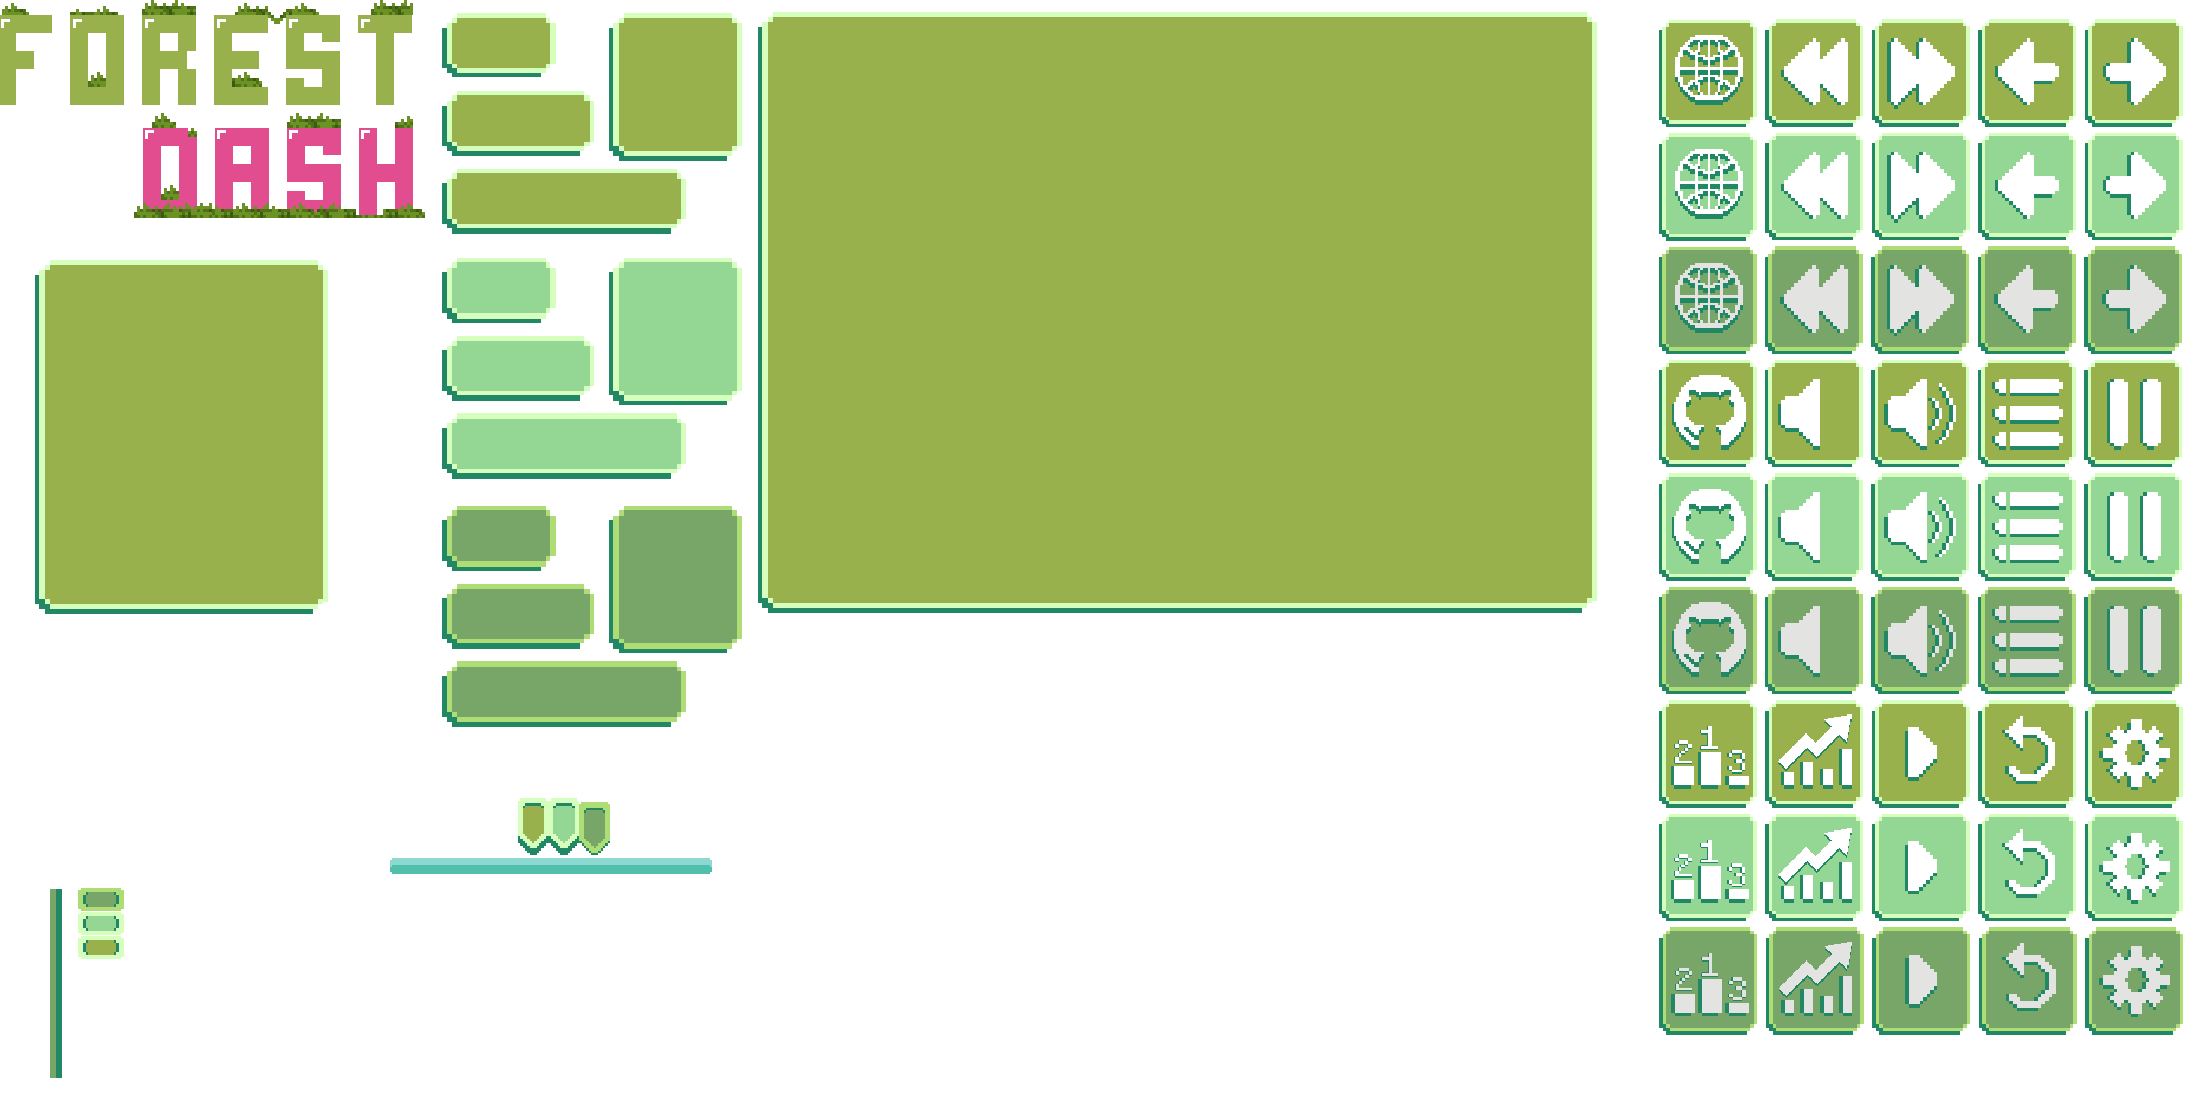
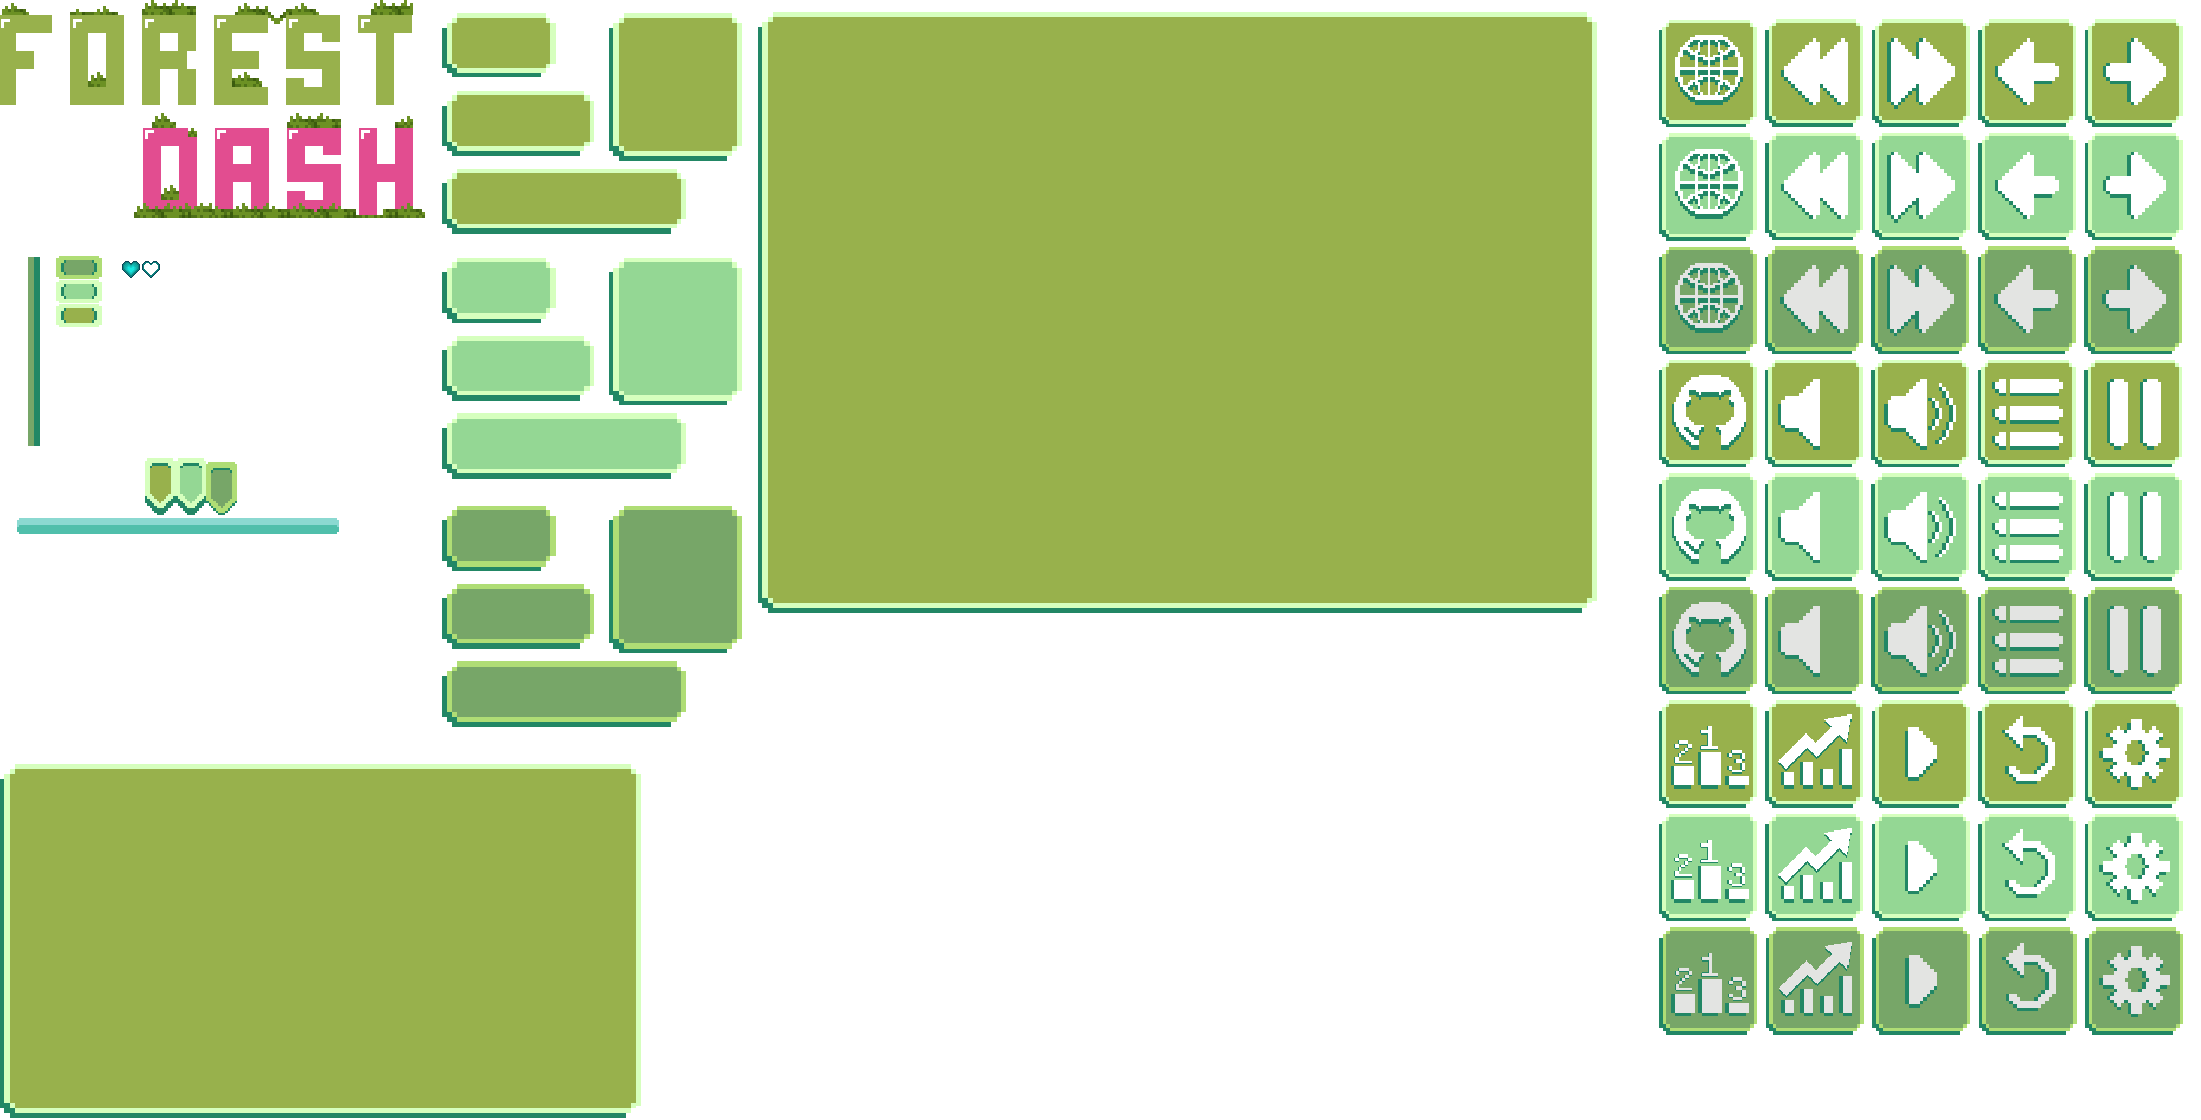
PauseMenu design

Changed region(s): [[0.0, 0.6562, 0.3398, 1.0], [0.0, 0.2188, 0.1545, 0.5625]]

diff --git a/Forrest Dash UI/Motor2D/j1Scene.cpp b/Forrest Dash UI/Motor2D/j1Scene.cpp
@@ -422,20 +422,21 @@ void j1Scene::PauseMenu()
 {
 	if (App->GetPause() == false) { App->Pause(); }
 	LOG("menu de pausa");
-	SDL_Rect rect = { 37, 260, 293, 354 };
-	panel = App->gui->CreateGuiElement(Types::image, (App->win->width - 320) / 2, (App->win->height - 310) / 2, rect, nullptr, this);
+	SDL_Rect rect = { 0, 764, 643, 356 };
+	panel = App->gui->CreateGuiElement(Types::image, (App->win->width - 643) / 2, (App->win->height - 310) / 2, rect, nullptr, this);
 	panel->follow = true;
-	resumeButton = App->gui->CreateGuiElement(Types::button, 30, 20, { 444, 169, 244, 65 }, panel, this, NULL);
+	resumeButton = App->gui->CreateGuiElement(Types::button, 20, 100, { 444, 169, 244, 65 }, panel, this, NULL);
 	resumeButton->setRects({ 444, 413, 244, 66 }, { 444, 661, 244, 65 });
 	text = App->gui->CreateGuiElement(Types::text, 30, 14, rect, resumeButton, this, "RESUME");
 
-	mainmenuButton = App->gui->CreateGuiElement(Types::button, 30, 100, { 444, 169, 244, 65 }, panel, this, NULL);
+	mainmenuButton = App->gui->CreateGuiElement(Types::button, 20, 180, { 444, 169, 244, 65 }, panel, this, NULL);
 	mainmenuButton->setRects({ 444, 413, 244, 66 }, { 444, 661, 244, 65 });
 	text2 = App->gui->CreateGuiElement(Types::text, 30, 14, rect, mainmenuButton, this, "MAIN MENU");
-
-	
-	
-
+	scrollMusic = App->gui->CreateGuiElement(Types::slider, 420, 130, { 28, 257, 12, 189 }, panel, this);
+	scrollFx = App->gui->CreateGuiElement(Types::slider, 550, 130, { 28, 257, 12, 189 }, panel, this);
+	text = App->gui->CreateGuiElement(Types::text, 300, 280, rect, panel, this, "Music");
+	text = App->gui->CreateGuiElement(Types::text, 490, 280, rect, panel, this, "Fx");
+	soundLogo = App->gui->CreateGuiElement(Types::image, 450, 30, { 1884, 379, 72, 71 }, panel, this);
 
 	/*volume = App->gui->CreateGuiElement(Types::slider, 40, 180, rect, panel, this);*/
 }
@@ -448,6 +449,9 @@ void j1Scene::DestroyMenu()
 	mainmenuButton->to_delete = true;
 	text->to_delete = true;
 	text2->to_delete = true;
+	scrollMusic->to_delete = true;
+	scrollFx->to_delete = true;
+	soundLogo->to_delete = true;
 }
 
 void j1Scene::GuiInput(GuiItem* item)

diff --git a/Forrest Dash UI/Motor2D/j1MainMenu.cpp b/Forrest Dash UI/Motor2D/j1MainMenu.cpp
@@ -149,8 +149,8 @@ bool j1MainMenu::Start()
 	buttonToWeb = App->gui->CreateGuiElement(Types::button, 470, 600, { 1661, 20, 98, 108 }, banner, this);
 	buttonToWeb->setRects({ 1661, 133, 98, 108 }, { 1661, 246, 98, 108 });
 	
-	scrollBarMusic = App->gui->CreateGuiElement(Types::slider, COORDS(-1150), 250, { 50, 889, 12, 189 }, nullptr, this);
-	scrollBarFx = App->gui->CreateGuiElement(Types::slider, COORDS(-1520), 250, { 50, 889, 12, 189 }, nullptr, this);
+	scrollBarMusic = App->gui->CreateGuiElement(Types::slider, COORDS(-1150), 250, { 28, 257, 12, 189 }, nullptr, this);
+	scrollBarFx = App->gui->CreateGuiElement(Types::slider, COORDS(-1520), 250, { 28, 257, 12, 189 }, nullptr, this);
 	rect = { 2099, 717, 76, 74 };
 	text = App->gui->CreateGuiElement(Types::text, 300, 70, rect, settingsPanel, this, "Settings");
 	text = App->gui->CreateGuiElement(Types::text, 410, 300, rect, settingsPanel, this, "Music Volume");

diff --git a/Forrest Dash UI/Motor2D/j1Gui.cpp b/Forrest Dash UI/Motor2D/j1Gui.cpp
@@ -481,8 +481,8 @@ GuiSlider::GuiSlider(int x, int y, SDL_Rect texrect, j1Module* callback) : GuiIt
 	focus = false;
 	CallBack = callback;
 	Image = App->gui->CreateGuiElement(Types::image, 0, 0, texrect, this);
-	ScrollThumb = App->gui->CreateGuiElement(Types::image, -18, 0, { 78, 912, 46, 23 }, this, callback);
-	ScrollThumb->setRects({ 78, 912, 46, 23 }, { 78, 888, 46, 23 }); 
+	ScrollThumb = App->gui->CreateGuiElement(Types::image, -18, 0, { 56, 280, 46, 23 }, this, callback);
+	ScrollThumb->setRects({ 78, 912, 46, 23 }, { 78, 888, 46, 23 });
 	ScrollThumb->isDynamic = true;
 	to_delete = false;
 

diff --git a/Forrest Dash UI/Motor2D/j1Scene.h b/Forrest Dash UI/Motor2D/j1Scene.h
@@ -68,6 +68,9 @@ public:
 	GuiItem* volume;
 	GuiItem* panel;
 	GuiItem* logo;
+	GuiItem* scrollMusic;
+	GuiItem* scrollFx;
+	GuiItem* soundLogo;
 };
 
 #endif // __j1SCENE_H__
